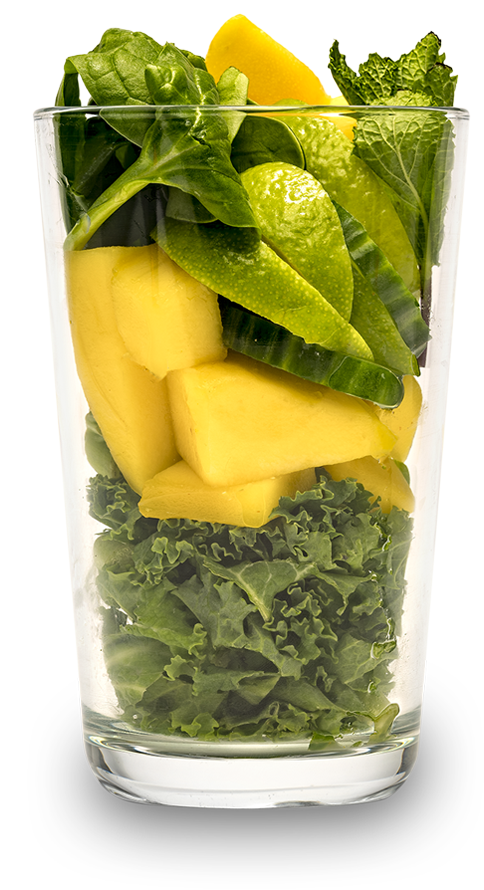
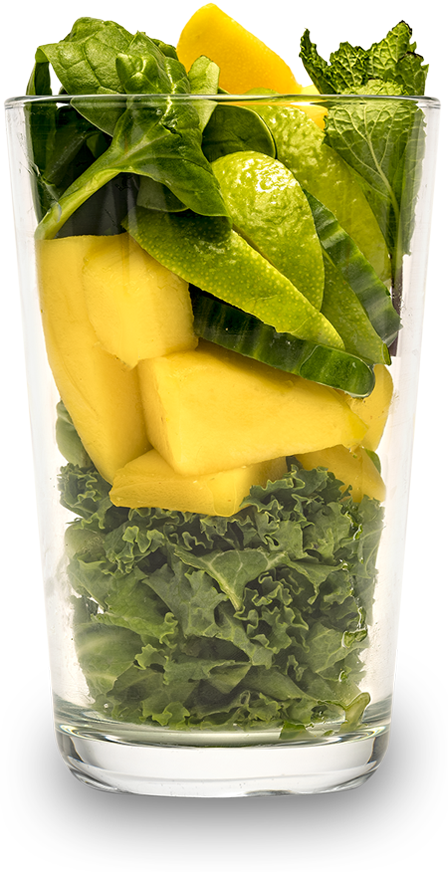
modification page contact 🎉

diff --git a/themes/HonestRoot/assets/styles/main.css b/themes/HonestRoot/assets/styles/main.css
@@ -5,7 +5,7 @@ body{
 }
 
 h1, h2, h3, h4, h5, h6{
-  font-family: 'Hammersmith One', sans-serif;
+  font-family: 'Muli', sans-serif;
   text-transform: uppercase;
 }
 
@@ -66,13 +66,21 @@ header#header{
 }
 
 /***** CONTACT ******/
+
 .titlecontact{
   font-family: 'Muli', sans-serif;
-  text-transform: uppercase;
+  color: #71AC29 ;
+  text-align: center;
+}
+
+.textecontact{
+  font-family: 'Nunito', sans-serif;
   color: #000000 ;
+  text-align: center;
 }
 
 .smoothiecontact{
-  width: 100%;
+  width: 150%;
   height: auto;
+  margin-left:-100px;
 }

diff --git a/themes/HonestRoot/contact.php b/themes/HonestRoot/contact.php
@@ -21,23 +21,23 @@ if ( $the_query->have_posts() ) {
     $the_query->the_post();
     ?>
 
-    <div id="content" class="container">
-      <div class="row">
-        <h1 class="col-sm-12"></h1>
-      </div>
+    <div id="conten" class="container-fluid">
 
       <div class="row">
 
-        <div class="col-sm-4">
+        <div class="col-sm-2">
         <img src="<?= IMAGES_URL; ?>/smoothiecontact.png" alt="<?php bloginfo("title"); ?>" class="smoothiecontact"/>
         </div>
+
+
 
       <div class="col-sm-8">
       <h2 class="titlecontact">RESTONS EN CONTACT !</h2>
 
-      <p class="texte contact">
+      <p class="textecontact">
         Découvrez comment mettre la main sur ces délicieux smoothies bio en contactant HonestRoot sur :
       </p>
+
 
 
 <svg width="57px" height="43px" viewBox="0 0 57 43" version="1.1" xmlns="http://www.w3.org/2000/svg" xmlns:xlink="http://www.w3.org/1999/xlink">
@@ -55,10 +55,9 @@ if ( $the_query->have_posts() ) {
 
 
 
+
+
 <svg width="44px" height="44px" viewBox="0 0 44 44" version="1.1" xmlns="http://www.w3.org/2000/svg" xmlns:xlink="http://www.w3.org/1999/xlink">
-    <!-- Generator: Sketch 47.1 (45422) - http://www.bohemiancoding.com/sketch -->
-    <desc>Created with Sketch.</desc>
-    <defs></defs>
     <g id="Page-1" stroke="none" stroke-width="1" fill="none" fill-rule="evenodd">
         <g id="PAGE-CONTACT" transform="translate(-368.000000, -636.000000)">
             <g id="CONTENU" transform="translate(342.000000, 150.000000)">
